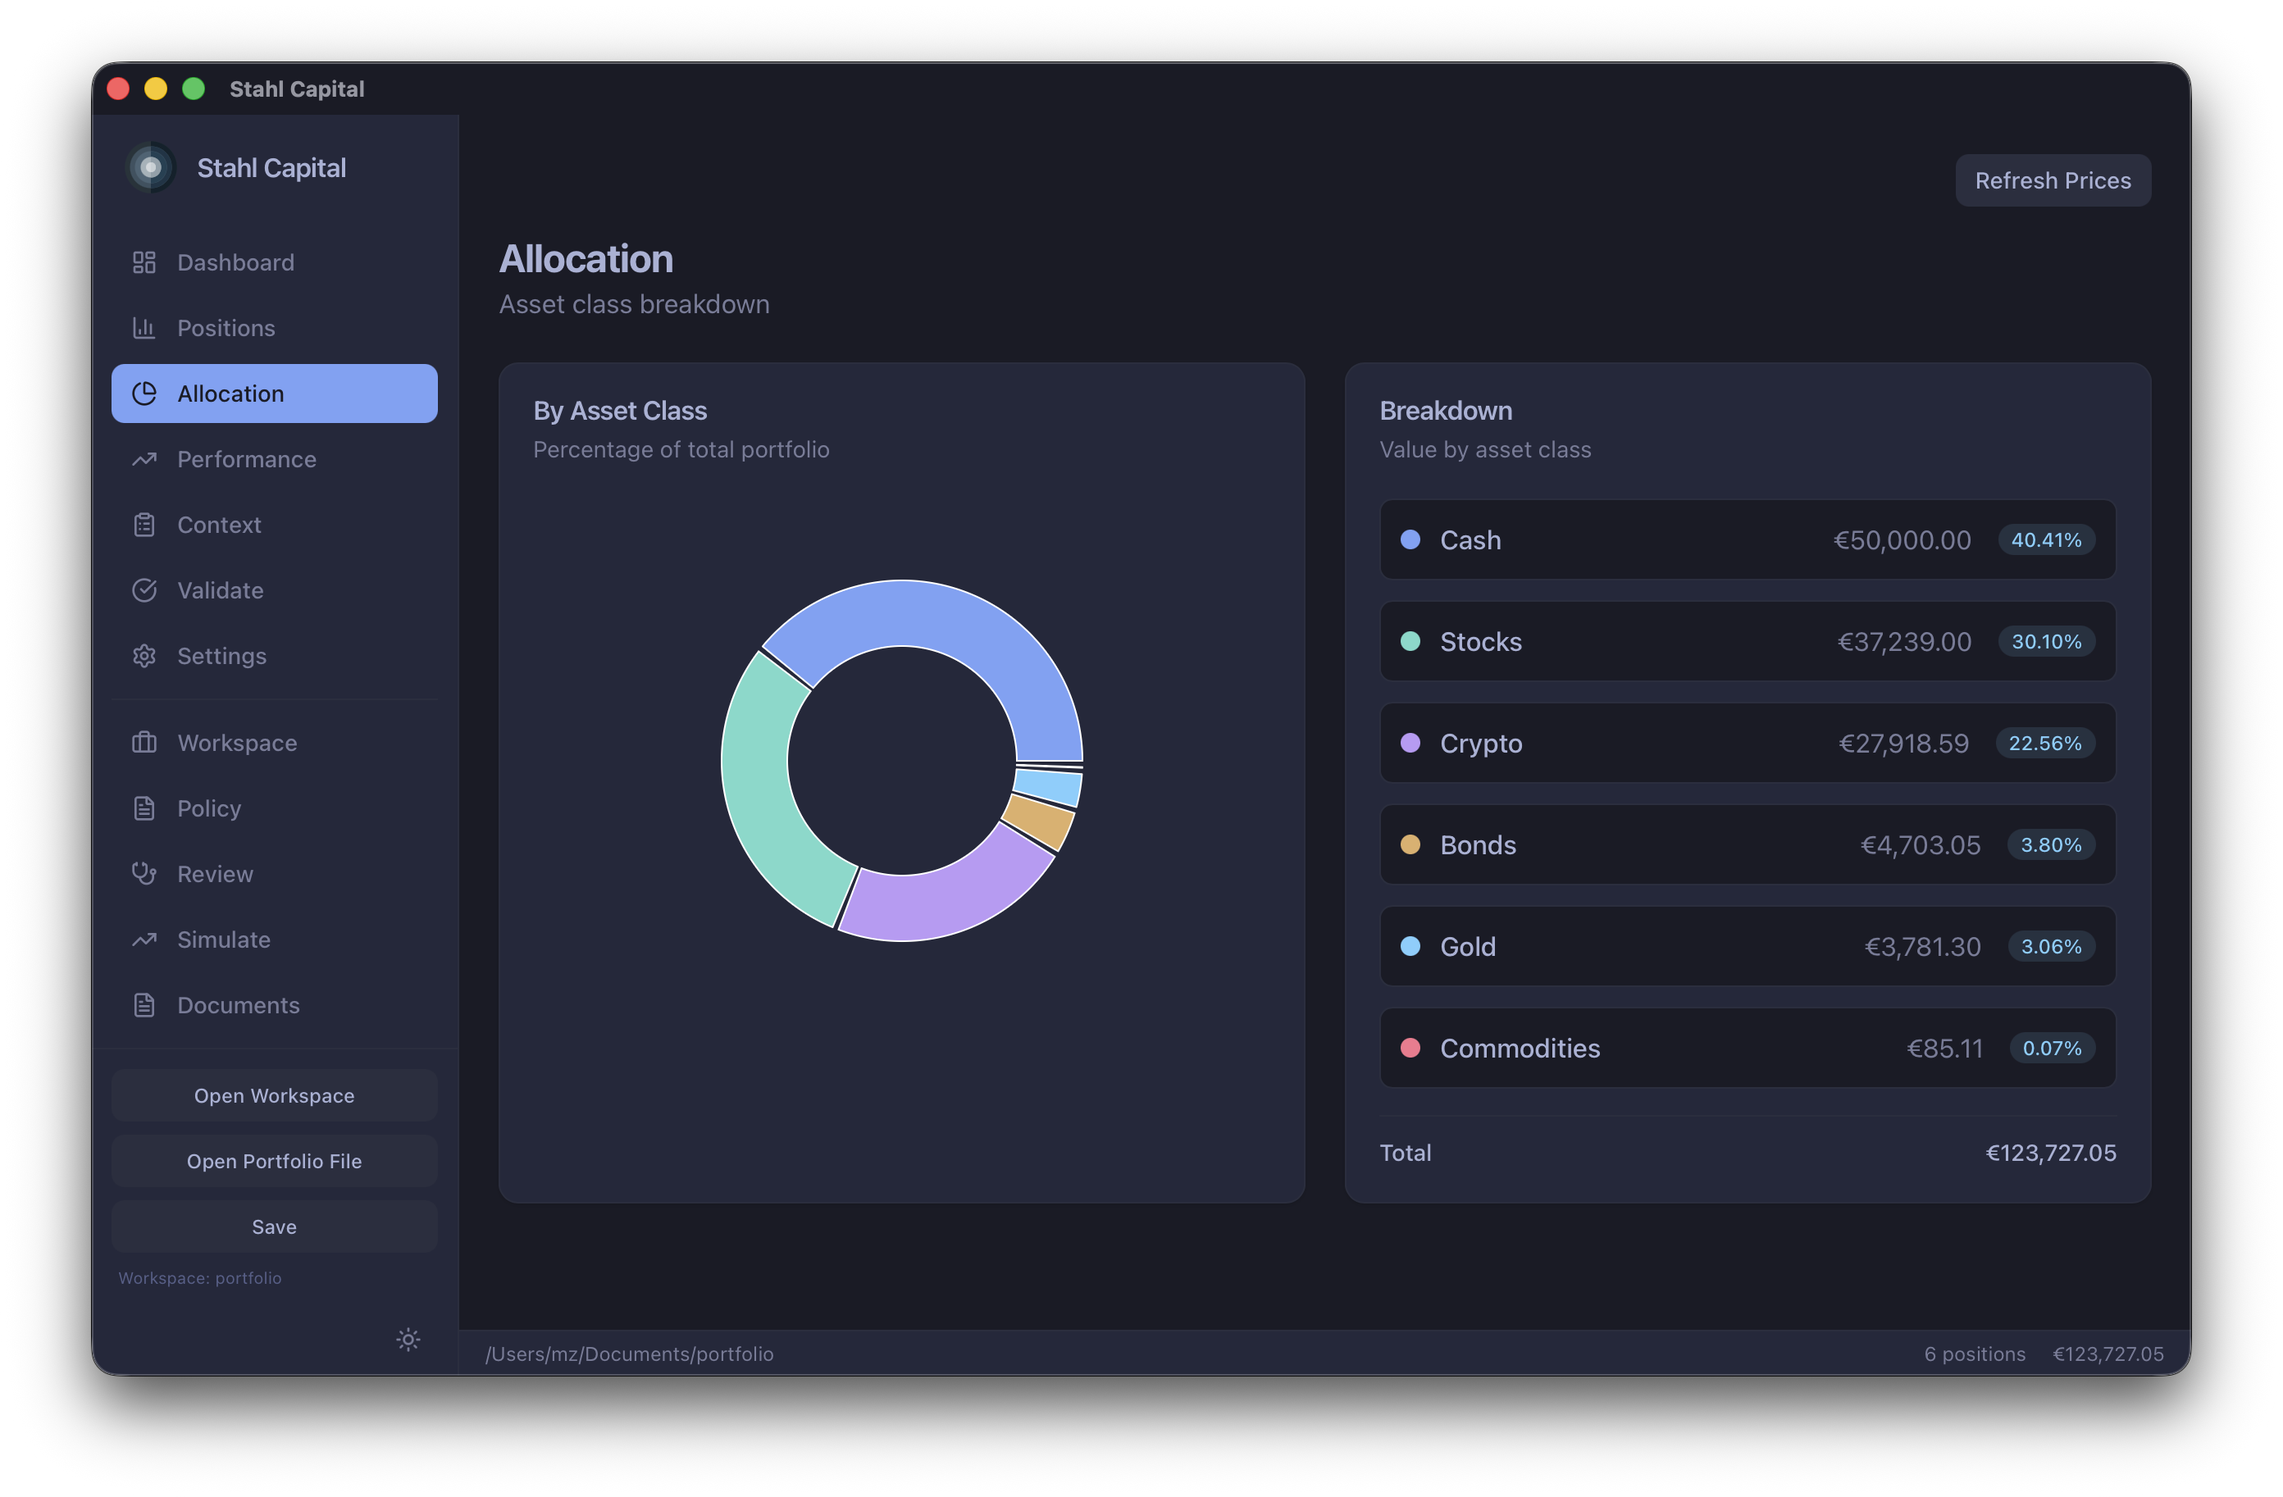
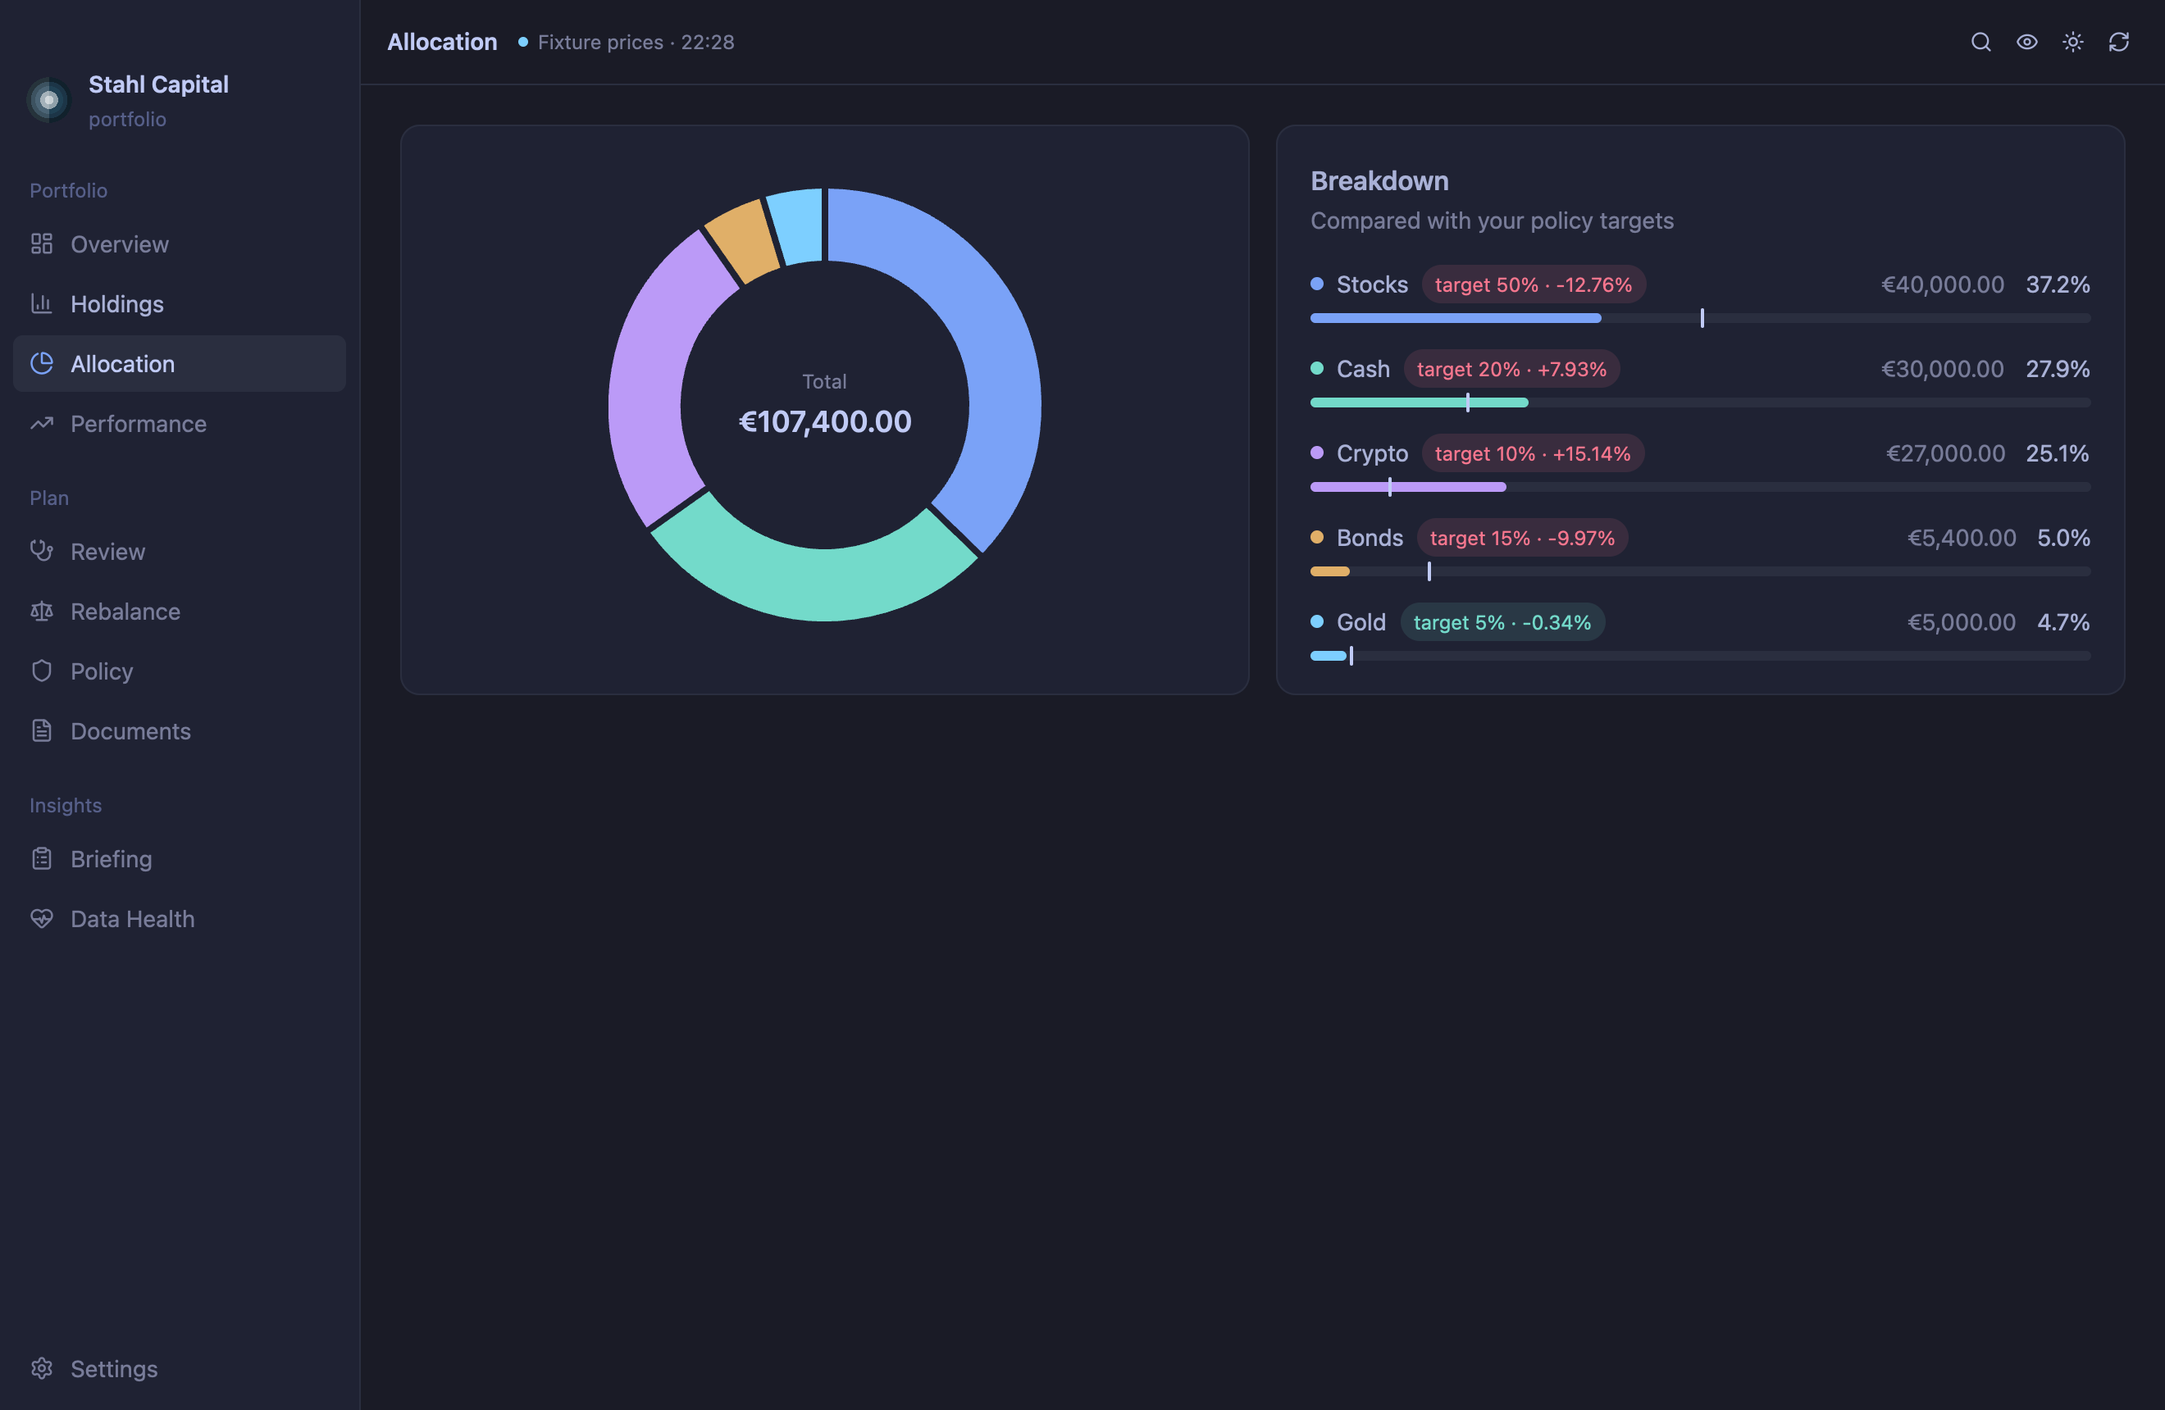
docs: describe the native app
Rewrite the README and AGENTS.md for GPUI, including the pitfalls the end-to-end
tests caught, and replace the screenshots with renders of the new UI on demo data.

diff --git a/README.md b/README.md
@@ -2,29 +2,50 @@
 
 [![CI](https://github.com/MarkusZoppelt/stahl/actions/workflows/ci.yml/badge.svg)](https://github.com/MarkusZoppelt/stahl/actions/workflows/ci.yml)
 
-A local-first desktop GUI for [`portfolio_rs`](https://github.com/MarkusZoppelt/portfolio_rs) — track
-investment portfolios, run policy-aware reviews, simulate rebalancing, and manage a durable finance
-workspace, all from a native app. Built with [Tauri 2](https://tauri.app), React, and TypeScript.
+A local-first, native desktop app for [`portfolio_rs`](https://github.com/MarkusZoppelt/portfolio_rs):
+track investment portfolios, see how they got here, run policy-aware reviews, and simulate
+rebalancing. Your data stays in plain files on your own machine. Built in Rust on
+[GPUI](https://www.gpui.rs), with no web view.
 
-![Performance view](screenshots/performance.png)
+![Overview](screenshots/overview.png)
 
-> **Status:** early prototype. Expect rough edges.
+> **Status:** early. Expect rough edges.
 
 ## Features
 
-- **Dashboard** — total value, day change, and PnL at a glance
-- **Positions** — add, edit, and remove holdings with live quotes
-- **Allocation** — asset-class breakdown with drift visualization
-- **Performance** — historical and daily returns, top movers
-- **Context** — agent-friendly portfolio briefing
-- **Validate** — sanity-check a portfolio file
-- **Workspace mode** — for full finance workspaces (`portfolio_rs init-workspace`):
-  - **Policy** — view and edit your machine-readable investment policy
-  - **Review** — policy-aware drift/violation checks
-  - **Simulate** — rebalancing what-if scenarios (never trades)
-  - **Documents** — generate weekly reports and decision records
-- **Settings** — currency, theme, and AI provider configuration
+- **Overview:** total value, today's change, and value over time at a glance, with what needs attention
+- **Holdings:** a sortable, searchable table with a detail pane for cost basis and purchases
+- **Allocation:** the split today, compared with your policy's targets
+- **Performance:** value over time with time-weighted return, separating market moves from money you added
+- **Review** (workspace): drift, constraint checks, data quality, and suggested actions
+- **Rebalance** (workspace): what-if scenarios. It never trades.
+- **Policy** (workspace): your machine-readable investment policy, in an editor with a readable summary
+- **Documents** (workspace): weekly reports and decision records
+- **Briefing:** the summary an advisor would ask for, with Copy as Markdown to hand it to an AI assistant
+- **Data Health:** file validation, data-quality findings, and workspace checks
 
+And it behaves like a desktop app:
+
+- **Command palette** (`⌘K`) and shortcuts for every page (`⌘1`–`⌘0`)
+- **Hide amounts** (`⌘⇧H`) before you share your screen
+- **Drop a file or folder** on the window to open it
+- **Unsaved changes** show in the title bar, and quitting offers to save them
+- **A broken positions file** shows the line and column at fault. It is never shown as an empty portfolio, and never overwritten.
+- **Price freshness** in the toolbar: live, stale, partial, or offline
+- Native menus and file panels, light and dark themes
+
+### History
+
+To chart your portfolio over time, Stahl records one valuation per day when it opens a portfolio or
+refreshes prices, if every position has a price. It uses the same files as `portfolio_rs snapshot`,
+so both add to one history:
+
+- in a workspace, `portfolio/history/main/snapshots.jsonl`
+- otherwise, `$XDG_DATA_HOME/portfolio_rs/main/snapshots.jsonl` (or under `~/.local/share`)
+- anywhere you like, with `PORTFOLIO_RS_DATA_DIR`
+
+Encrypted (`.gpg`) portfolios are never recorded, because that would put their values on disk in
+plaintext.
 
 ## Run
 
@@ -32,13 +53,15 @@ workspace, all from a native app. Built with [Tauri 2](https://tauri.app), React
 nix run github:MarkusZoppelt/stahl
 ```
 
+Pass a positions file to open it: `stahl positions.json`.
+
 ## Install
 
 ```sh
 nix profile install github:MarkusZoppelt/stahl
 ```
 
-Native installers (`.dmg`, `.deb`/`.AppImage`, `.msi`) are attached to
+Installers (`.dmg`, `.deb`, and a Windows `.zip`) are attached to
 [GitHub Releases](https://github.com/MarkusZoppelt/stahl/releases).
 
 ## Building
@@ -48,69 +71,61 @@ Native installers (`.dmg`, `.deb`/`.AppImage`, `.msi`) are attached to
 ```sh
 nix build .#stahl      # ./result/bin/stahl
 nix run .#stahl        # build + run
-nix develop            # cargo, pnpm, cargo-tauri, rust-analyzer, …
-cargo tauri dev
+nix develop            # the pinned Rust toolchain and everything else
+cargo run
 ```
-
-> If `cargo tauri dev` fails with a `dyld`/`libiconv` error, you likely have a stale
-> `cargo-tauri` binary in `~/.cargo/bin` (installed via `cargo install tauri-cli`) that shadows
-> the one provided by the dev shell. Either remove it, or invoke `cargo-tauri dev` directly
-> (skipping cargo's subcommand resolution, which always prefers `$CARGO_HOME/bin`).
 
 ### Without Nix
 
-Requires Rust (stable), Node.js, [pnpm](https://pnpm.io), and the platform prerequisites for
-[Tauri 2](https://v2.tauri.app/start/prerequisites/) (WebKitGTK + GTK3 on Linux; Xcode command line
-tools on macOS).
+Requires [rustup](https://rustup.rs), which picks up the toolchain pinned in `rust-toolchain.toml`.
+On Linux you also need the development packages for Vulkan, Wayland, X11, xkbcommon, fontconfig, and
+freetype; `.github/workflows/release.yml` has the list for Debian and Ubuntu. On macOS the Xcode
+command line tools are enough.
 
 ```sh
-pnpm --dir frontend install
-cargo install tauri-cli --version "^2"
-cd src-tauri
-cargo tauri dev     # development
-cargo tauri build   # release bundle
+cargo run
 ```
 
 ## Development
 
-Frontend linting and formatting use [Oxlint](https://oxc.rs/docs/guide/usage/linter.html) and
-[Oxfmt](https://oxc.rs/docs/guide/usage/formatter.html) — fast, Rust-based drop-ins for ESLint and
-Prettier:
-
 ```sh
-pnpm --dir frontend lint        # oxlint
-pnpm --dir frontend fmt         # oxfmt (writes)
-pnpm --dir frontend fmt:check   # oxfmt --check
+cargo test
+STAHL_SCREENSHOTS=/tmp/shots cargo test --test e2e   # also renders every screen to PNG
 ```
 
-`nix flake check` runs the full suite in one shot: the release build, `cargo clippy --deny warnings`,
-`cargo fmt --check`, and the frontend lint/format/typecheck. `nix fmt` formats the Nix code itself
-(via [Alejandra](https://github.com/kamadorueda/alejandra)). CI (`.github/workflows/ci.yml`) runs
-`nix flake check` on Linux and macOS for every push and pull request.
+`tests/e2e.rs` drives the real app in a headless window, with clicks and shortcuts, on real
+`portfolio_rs` data and fixture quotes. To try the app without the network, set
+`PORTFOLIO_RS_QUOTES=offline` or `fixture:<path>`.
+
+`nix flake check` runs the release build, `cargo clippy --deny warnings`, `cargo fmt --check`, and
+the unit tests. The end-to-end tests need a login session, so they run outside it. `nix fmt` formats
+the Nix code. CI (`.github/workflows/ci.yml`) runs all of this for every push and pull request:
+`nix flake check` on Linux and macOS, and the end-to-end tests on macOS.
 
 ## Releases
 
-Pushing a tag matching `v*` (e.g. `v0.1.0`) triggers `.github/workflows/release.yml`, which builds
-native installers with [`tauri-action`](https://github.com/tauri-apps/tauri-action) — macOS (Apple
-Silicon) `.dmg`/`.app`, Linux `.deb`/`.AppImage`, and Windows `.msi`/`.exe` — and attaches them to a
-draft GitHub Release. This is a separate, non-Nix pipeline: `nix build` produces binaries dynamically
-linked against `/nix/store` paths (fine for machines with Nix, not for end-user distribution), so
-releases are built with each OS's native toolchain instead, the same way as the "Without Nix" section
-above. macOS builds are ad-hoc signed (`signingIdentity: "-"` in `tauri.conf.json`) since there's no
-Apple Developer certificate configured; users will still need to right-click → Open (or clear the
-quarantine attribute) on first launch.
+Pushing a tag matching `v*` (e.g. `v0.2.0`) triggers `.github/workflows/release.yml`, which builds
+installers with each OS's native toolchain and attaches them to a draft GitHub Release. This is
+separate from Nix: `nix build` produces binaries linked against `/nix/store` paths, which is fine for
+machines with Nix but not for distribution. macOS builds are ad-hoc signed, as there is no Apple
+Developer certificate configured, so users need to right-click → Open (or clear the quarantine
+attribute) on first launch.
 
 ## Project structure
 
 ```
-src-tauri/    Rust backend (Tauri commands, AppState wiring, config)
-frontend/     React + TypeScript + Tailwind UI
-flake.nix     Reproducible build for macOS, Linux, and NixOS
+src/backend.rs   The bridge to portfolio_rs, which runs on Tokio beside GPUI
+src/model.rs     State shared across the window
+src/app.rs       Window, menus, shortcuts, command palette, sidebar
+src/pages/       One module per screen
+src/ui.rs        Layout pieces shared by the pages
+assets/          Theme, app icons, embedded UI icons (Lucide)
+tests/e2e.rs     End-to-end tests on the real UI
+flake.nix        Reproducible build for macOS, Linux, and NixOS
 ```
 
-The Rust side is a thin layer: `src-tauri/src/commands.rs` exposes `portfolio_rs::state::AppState`
-methods as Tauri commands; almost all domain logic (portfolio math, policy review, simulation,
-reports) lives in the `portfolio_rs` library.
+Almost all domain logic (portfolio math, policy review, simulation, reports) lives in the
+`portfolio_rs` library.
 
 ## License
 

diff --git a/AGENTS.md b/AGENTS.md
@@ -25,8 +25,8 @@ Guidance for AI agents (and humans) working on this repo.
 - If an import is only needed under a `#[cfg(...)]`-gated function or block,
   gate the `use` with the same `#[cfg(...)]` rather than importing it
   unconditionally (which would produce an unused-import warning on other
-  platforms). Example: `main.rs`'s Linux-only `WEBKIT_DISABLE_DMABUF_RENDERER`
-  workaround uses `#[cfg(target_os = "linux")] use std::env;`.
+  platforms). Example: `main.rs`'s Linux-only display check uses
+  `#[cfg(target_os = "linux")] use std::process;`.
 
 - Run `cargo fmt` after adding/moving imports — rustfmt reorders and groups
   `use` statements (including `#[cfg(...)]`-gated ones) and CI enforces this
@@ -35,51 +35,56 @@ Guidance for AI agents (and humans) working on this repo.
 - `cargo clippy --all-targets -- --deny warnings` must be clean (also
   enforced by `nix flake check` → `stahl-clippy`).
 
+## GPUI
+
+GPUI comes through [`gpui-kit`](https://github.com/longbridge/gpui-kit), which
+pins a `gpui-pre` snapshot of Zed's crates and adds the widgets (inputs, editor,
+charts, dialogs, command palette). Import everything from `gpui_kit`. Updating
+it can move GPUI's API, and may raise the Rust version it needs.
+
+Things that are easy to get wrong:
+
+- `KeyBinding::new` panics on `secondary-*`. Use the `key!` macro in `app.rs`.
+- Key and menu dispatch is already updating the window, so an action handler
+  cannot call `window.update`. App-wide actions go through `with_shell`, which
+  defers. Code inside `with_shell` is also inside an update of the shell, so it
+  must not `shell.read(cx)`.
+- `portfolio_rs` needs Tokio and GPUI has its own executors. Reach the backend
+  through `ui::run_backend` or `ui::run_backend_in`.
+
+## Tests
+
+`tests/e2e.rs` drives the real app headlessly. It has its own `main` because
+GPUI's macOS platform must own the main thread. It needs a login session, so it
+does not run in the Nix sandbox: `nix flake check` skips it, and CI runs it
+separately. Unit tests cannot catch the problems above, so run it, and look at
+the result of UI changes:
+
+```sh
+STAHL_SCREENSHOTS=/tmp/shots cargo test --test e2e
+```
+
+Tests must not touch the user's config. `AppState::load_workspace` and
+`load_simple_file` save it to the default location whatever `Backend` was given,
+so tests open portfolios through `Backend::startup` instead.
+
+When running the app by hand, isolate it from real data: set `HOME` to a temp
+directory and `PORTFOLIO_RS_QUOTES=offline`. Opening a portfolio records a
+valuation in its history.
+
 ## Nix flake maintenance
 
-`flake.nix` builds the frontend hermetically via `pkgs.fetchPnpmDeps`, which
-is a fixed-output derivation pinned to `frontendDepsHash`. Any change to
-`frontend/package.json` or `frontend/pnpm-lock.yaml` invalidates that hash.
-Regenerate with:
+`rust-toolchain.toml` is the single Rust version pin, shared by rustup, the
+release workflow, and the flake (through `rust-overlay`, because GPUI needs a
+newer compiler than nixpkgs ships). Do not add a second pin.
 
-```sh
-./scripts/update-frontend-deps-hash.sh
-```
-
-Dependabot owns Cargo, frontend npm, and GitHub Actions. A weekly workflow
-updates `flake.lock`. CI runs the hash script on PRs that touch the frontend
-lockfile (including Dependabot) and commits the result.
-
-This hash is the same across `x86_64-linux`, `aarch64-linux`, `x86_64-darwin`,
-and `aarch64-darwin` — `fetchPnpmDeps` fetches every optional dependency
-listed in the lockfile (all os/cpu native-binary variants), not just the ones
-matching the host, so there's no need for a per-system hash.
-
-Do not remove the `pnpmForFetch` (`nodejs-slim_26`) override in `flake.nix`.
-It works around a real, reproducible V8/libc++ ODR-violation bug in
-nixpkgs' default Node 24
-([NixOS/nixpkgs#536039](https://github.com/NixOS/nixpkgs/issues/536039))
-that can hard-kill `pnpm install` mid-fetch under load. Confirmed locally:
-removing the override lets the fd-tracking warnings spam through, and the
-fetch gets `Killed: 9` under load; restoring it fixes it.
-
-## Frontend tooling
-
-Linting/formatting use [Oxlint](https://oxc.rs/docs/guide/usage/linter.html)
-and [Oxfmt](https://oxc.rs/docs/guide/usage/formatter.html), not
-ESLint/Prettier:
-
-```sh
-pnpm --dir frontend lint        # oxlint
-pnpm --dir frontend fmt         # oxfmt (writes)
-pnpm --dir frontend fmt:check   # oxfmt --check
-```
+Dependabot owns Cargo and GitHub Actions. A weekly workflow updates `flake.lock`.
 
 ## CI
 
 `.github/workflows/ci.yml` uses `cachix/install-nix-action` (not
 DeterminateSystems' installer/FlakeHub — keep this on plain, non-proprietary
 Nix tooling) and runs `nix flake check` + `nix build .#stahl` on Linux and
-macOS. It reads from the public `cache.nixos.org` and
-`nix-community.cachix.org` substituters already declared in `flake.nix`'s
+macOS, plus the end-to-end tests on macOS. It reads from the public
+`cache.nixos.org` and `nix-community.cachix.org` substituters already declared in `flake.nix`'s
 `nixConfig`; there is no project-specific push cache configured.
